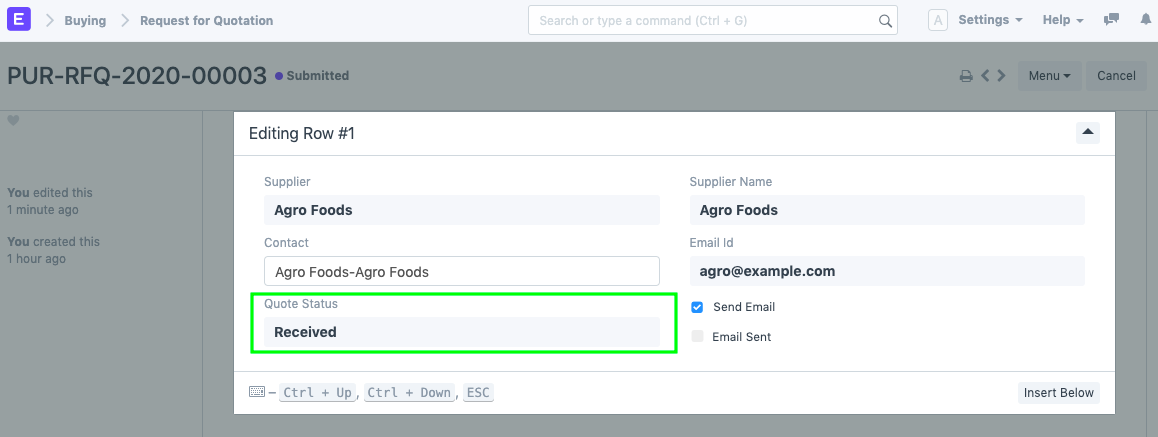
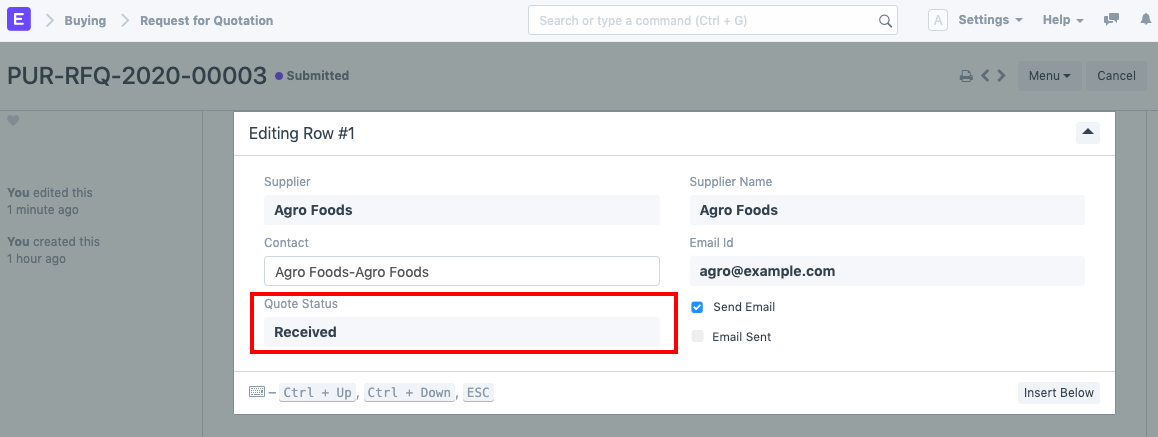
fix: Changed Image box color and fixed grammar

Changed region(s): [[0.2176, 0.6545, 0.5907, 0.833]]

diff --git a/erpnext_documentation/www/docs/user/manual/en/buying/request-for-quotation.md b/erpnext_documentation/www/docs/user/manual/en/buying/request-for-quotation.md
@@ -23,7 +23,7 @@ Before creating and using a Request for Quotation, it is advised that you create
 5. Save and submit.
 
 A Request for Quotation (RFQ) can also be created from a submitted Material Request. Once an RFQ is created, you can print and send suppliers the PDF which will have all the details you entered relevant to the RFQ. You can also get their reply (Supplier Quotation) in ERPNext itself, see section [4.1 Supplier Quotation by User](#41-supplier-quotation-by-user).
-However, for a large number of items, your supplier may be more comfortable with an Excel sheet etc.
+However, for a large number of items, your supplier may be more comfortable with an Excel sheet, etc.
 
 ## 3. Features
 
@@ -37,9 +37,9 @@ The items in the items table can be fetched from other documents. The options ar
 * **Possible Supplier**: Select a possible supplier. Then if you have any submitted Material Requests against this supplier, items can be fetched from that.
 
 ### 3.2 Get Suppliers
-Instead of entering the suppliers manually in the table, you can also fetch them using the 'Get Suppliers' button. When you click on **Tools > Get Suppliers**, you will see the field 'Get Suppliers By'. There are two options to fetch suppliers: by tags or by groups.
+Instead of entering the suppliers manually in the table, you can also fetch them using the 'Get Suppliers' button. When you click on **Tools > Get Suppliers**, you will see the field 'Get Suppliers By'. There are two options to fetch suppliers: By Tag or By Group.
 
-* **By tag**: Go to 'Tag Category' via searching from the search bar. You must have created tags here first and assigned them to a Supplier in the Buying module. Then you can select by Tag and enter a get. On clicking Add 'All Suppliers', suppliers with matching tags will be fetched.
+* **By tag**: Go to 'Tag Category' via searching from the search bar. You must have created tags here first and assigned them to a Supplier in the Buying module. Then you can select 'By Tag'. On clicking Add 'All Suppliers', suppliers with matching tags will be fetched.
 
 * **By Group**: Select 'Supplier Group' and choose the supplier group from which suppliers need to be added. For example, if you select Hardware, all your hardware suppliers will be added so that you can get a quote from all of them.
 
@@ -94,12 +94,12 @@ After creation of Request for Quotation, there are two ways to generate Supplier
 
 2. Click on **Tools > Send Emails to Suppliers**.
 
-    **If the Supplier's account is not present**: The system will create the Supplier's account and send details to the Supplier. The Supplier will need to click on the link(Password Update) present in the email. After the password update, the Supplier can access their portal with the 'Request for Quotation' form. The Supplier will be created as a Website User.
+    **If the Supplier's account is not present**: The system will create the Supplier's account and send details to the Supplier. The Supplier will need to click on the link (Password Update) present in the email. After the password update, the Supplier can access their portal with the 'Request for Quotation' form. The Supplier will be created as a Website User.
 
     ![Supplier email if account not present]({{docs_base_url}}/assets/img/buying/supplier-email-with-update-password.png)
 
 
-    **If Supplier's account is present**: System will send Request for Quotation link to Supplier, Supplier has to login using his credentials to view the Request for Quotation form on portal.
+    **If Supplier's account is present**: The system will send a Request for Quotation link to the Supplier. The Supplier must log in using his credentials to view the Request for Quotation form on the portal.
 
     ![Supplier email if account present]({{docs_base_url}}/assets/img/buying/supplier-email-normal.png)
 
@@ -107,9 +107,9 @@ After creation of Request for Quotation, there are two ways to generate Supplier
 
     ![Supplier Quotation Screen]({{docs_base_url}}/assets/img/buying/rfq-supplier-quotation.png)
 
-    The supplier has to enter the amount and notes (payment terms) on the form and click on Submit. In the Quotations section, previous quotations will be visible.
+    The Supplier has to enter the amount and notes (payment terms) on the form and click on Submit. In the Quotations section, previous quotations will be visible.
 
-4. On submission, ERPNext will create a Supplier Quotation (draft mode) against the Supplier. The user has to review the Supplier Quotation and submit it. When all items from the Request for Quotation have been quoted by a Supplier, the quote status is updated to 'Received' in the 'Suppliers' table of Request for Quotation.
+4. On submission, ERPNext will create a Supplier Quotation (draft mode) against the Supplier. The user has to review the Supplier Quotation and submit it. When all the items from the Request for Quotation have been quoted by a Supplier, the quote status is updated to 'Received' in the 'Suppliers' table of the Request for Quotation.
 
     ![RFQ status after supplier quote]({{docs_base_url}}/assets/img/buying/rfq-supplier-quoted.png)
 
